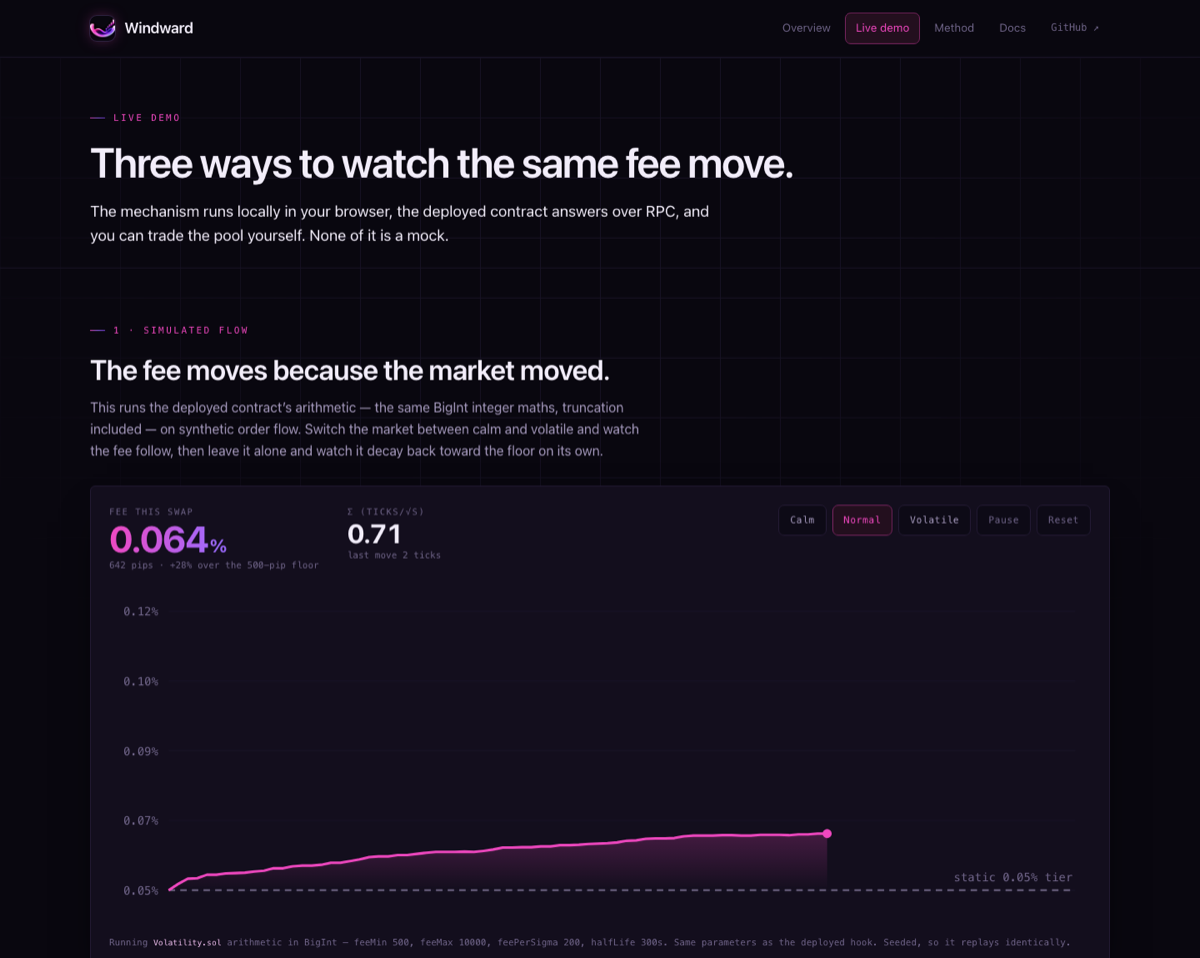
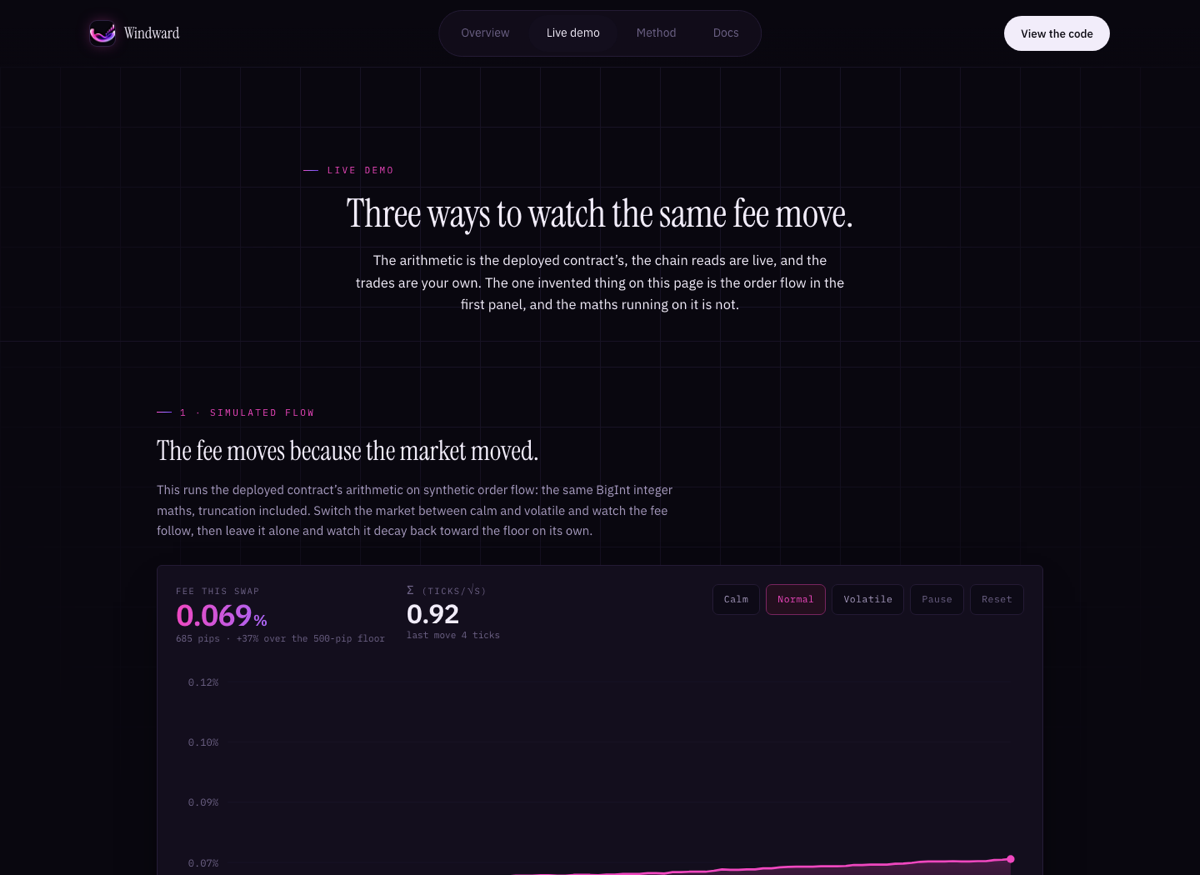
docs: refresh the README screenshots after the redesign
The images were captured on 1 September and the site was rebuilt on the
4th, so the README was showing a typeface, layout and hero the site no
longer has. Recaptured from the current production build.

Also extends the /docs description, which listed the sections that page
had before it gained the plain-English opening, the worked examples and
the glossary.

diff --git a/README.md b/README.md
@@ -88,7 +88,7 @@ Three pages, all reading the same committed JSON the study produced.
 | | |
 |---|---|
 | ![Live demo](docs/screenshots/demo.png) | **`/demo`** — the estimator running in the browser on synthetic flow, the deployed contract read live over RPC, and a pool you can trade yourself with a wallet. |
-| ![Docs](docs/screenshots/docs.png) | **`/docs`** — the mechanism, the four parameters, integration requirements, deployment evidence, and all ten limits. |
+| ![Docs](docs/screenshots/docs.png) | **`/docs`** — what the hook does in plain English, the mechanism with worked examples computed from the estimator itself, the four parameters, integration requirements, deployment evidence, all ten limits, and a glossary. |
 
 ## The finding
 
